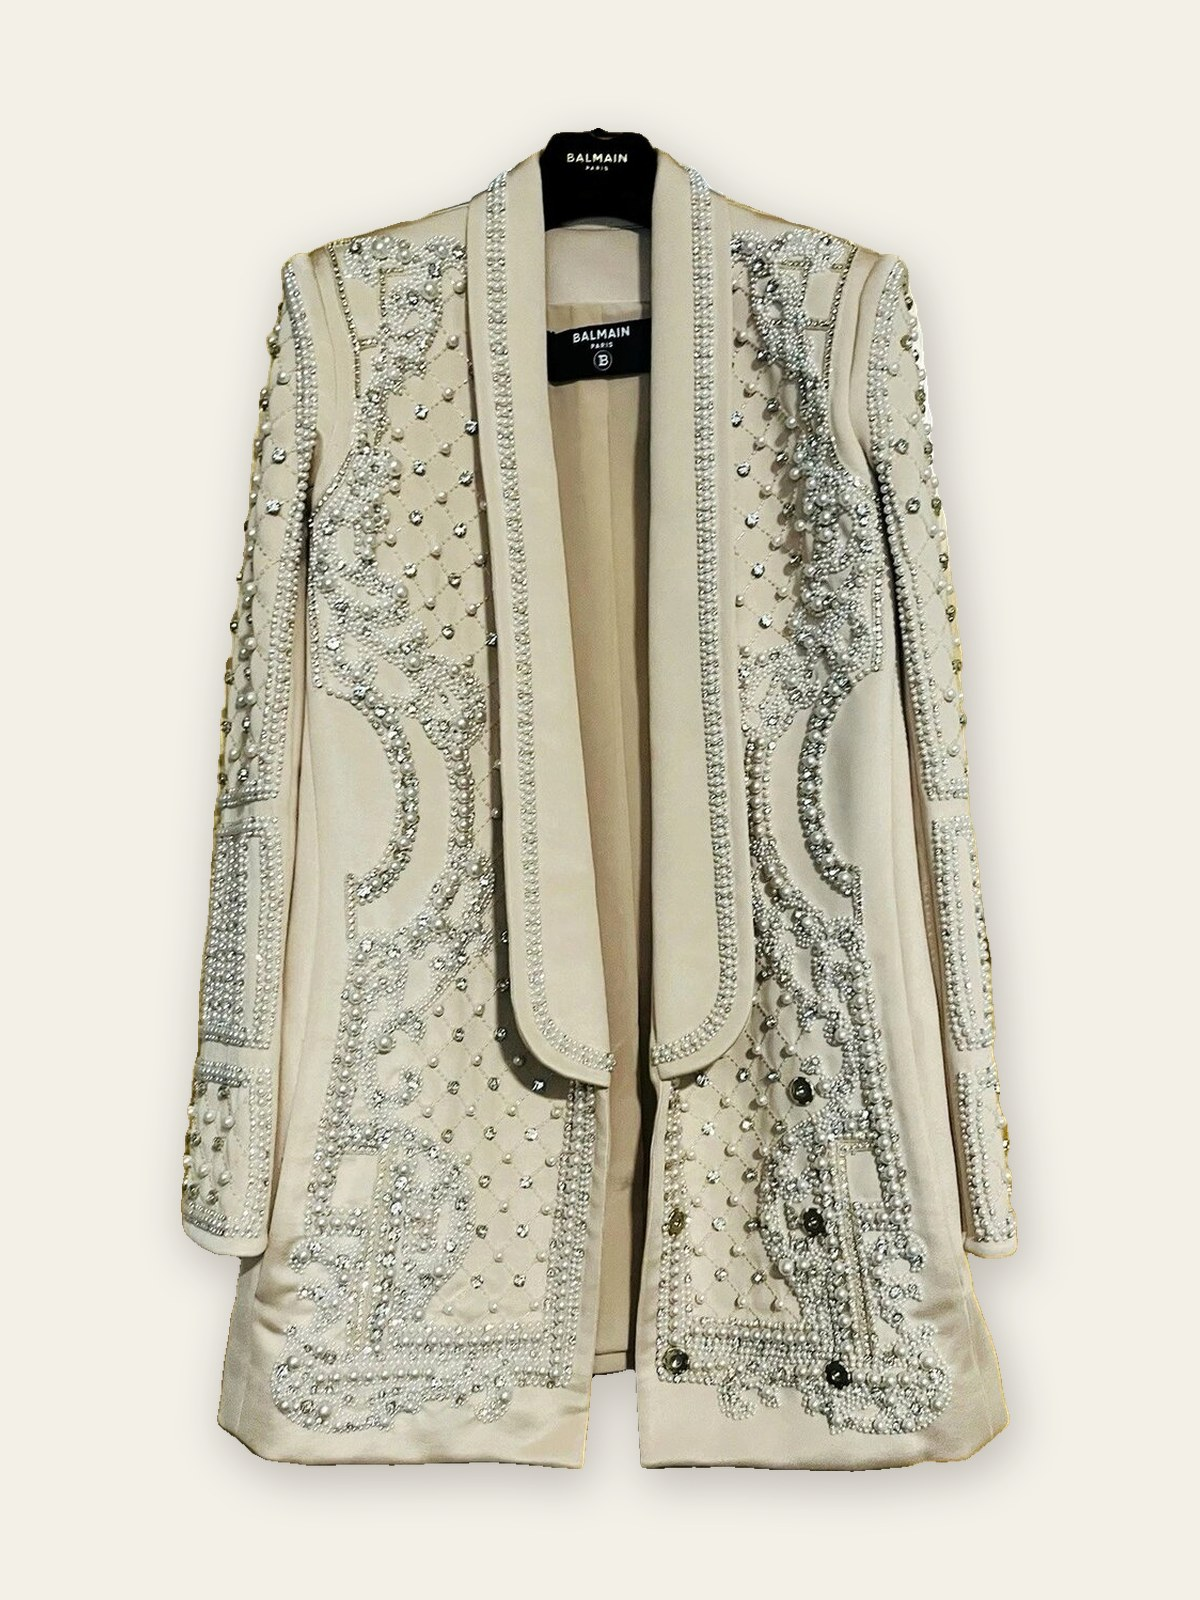
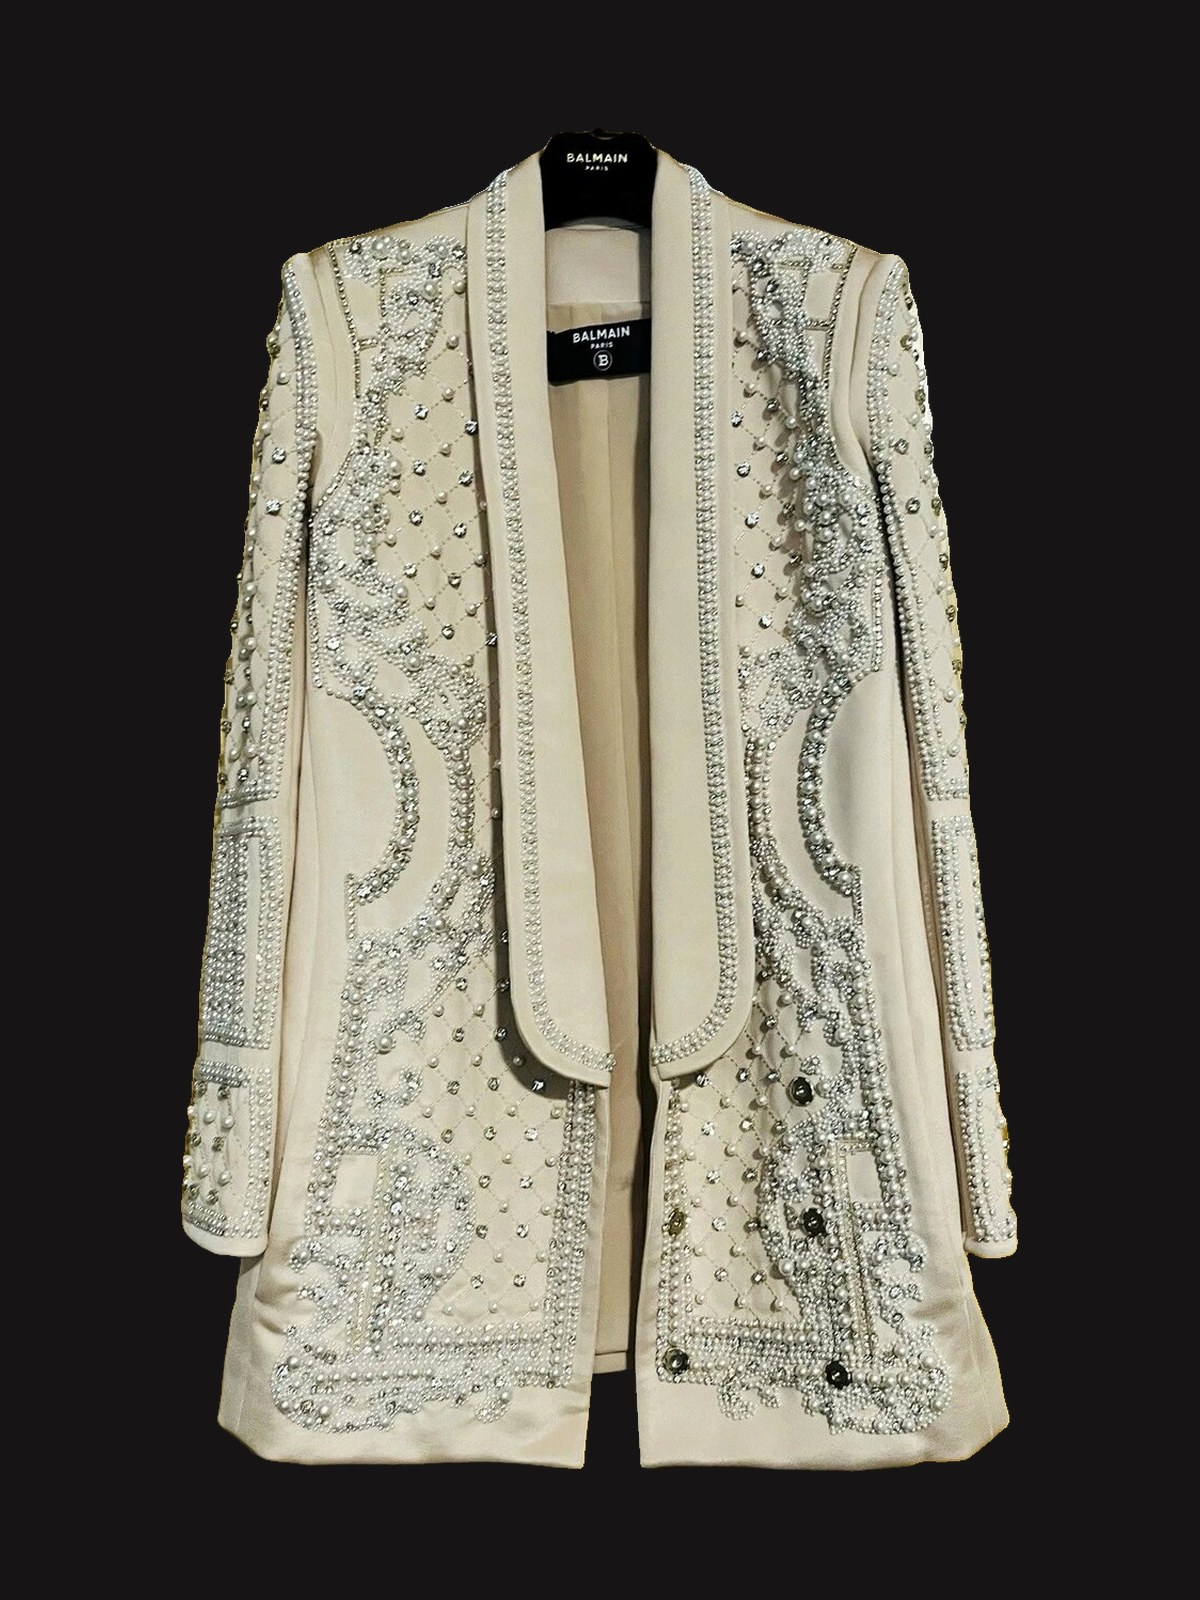
Set the pale and silver items on black grounds
Edge-to-ground luminance measured for every cut-out: the Balmain coat
(r009), the 1937 crown (t005) and the Edwardian pendant (t018) sit too
close to warm white. t018 keeps its original black photograph, fitted to
3:4; r009 and t005 are composited on black. The other 24 cut-outs stay on
warm white.

Claude-Session: https://claude.ai/code/session_0146WwfpqSoST3wS5kAsYEcA

diff --git a/tools/standardize.py b/tools/standardize.py
@@ -23,14 +23,16 @@ OUT_ROOT = os.environ.get("STANDARD_OUT", ROOT)       # where the standard files
 RATIO = 3 / 4                 # width / height shared by most of the original photographs
 W, H = 1200, 1600             # 3:4 canvas
 FILL = 0.84                   # the object fills this fraction of the limiting dimension
-KEEP_BACKGROUND = {"t021", "t015", "t019", "t016", "t027", "t003", "t022", "t026"}
+KEEP_BACKGROUND = {"t021", "t015", "t019", "t016", "t027", "t003", "t022", "t026", "t018"}
 MODEL = "birefnet-general-lite"
 RATIO_TOL = 0.015            # an original within this of RATIO is only resized
 # Per-item colour ranges (OpenCV HSV, H 0-179) removed from the segmentation mask, for
 # photographs where a second object lay under the item.
 STRIP_COLOUR = {"r015": ((5, 25), 60, 60)}   # tan overcoat under the trench coat
 # Items whose photograph carries a colour cast: the object's average is pulled towards neutral grey.
-NEUTRALIZE = {"t018": 1.0}                    # strength 0..1
+NEUTRALIZE = {}                               # id -> strength 0..1
+# Items too close in tone to the warm-white ground are set on their own colour instead.
+BG_OVERRIDE = {"r009": (22, 20, 20), "t005": (22, 20, 20)}   # pale or silver objects sit on black
 
 
 def items():
@@ -145,10 +147,12 @@ def cut_out(im, iid, session):
     scale = min(FILL * W / sub.width, FILL * H / sub.height)
     sub = sub.resize((max(1, int(sub.width * scale)), max(1, int(sub.height * scale))), Image.LANCZOS)
     x, y = (W - sub.width) // 2, (H - sub.height) // 2
-    canvas = Image.new("RGBA", (W, H), BG + (255,))
-    shadow = Image.new("RGBA", (W, H), (0, 0, 0, 0))
-    shadow.paste(Image.new("RGBA", sub.size, (70, 55, 45, 70)), (x + 6, y + 14), sub.split()[3])
-    canvas = Image.alpha_composite(canvas, shadow.filter(ImageFilter.GaussianBlur(22)))
+    ground = BG_OVERRIDE.get(iid, BG)
+    canvas = Image.new("RGBA", (W, H), ground + (255,))
+    if sum(ground) > 300:   # a shadow only reads on a light ground
+        shadow = Image.new("RGBA", (W, H), (0, 0, 0, 0))
+        shadow.paste(Image.new("RGBA", sub.size, (70, 55, 45, 70)), (x + 6, y + 14), sub.split()[3])
+        canvas = Image.alpha_composite(canvas, shadow.filter(ImageFilter.GaussianBlur(22)))
     canvas.alpha_composite(sub, (x, y))
     return canvas.convert("RGB")
 
